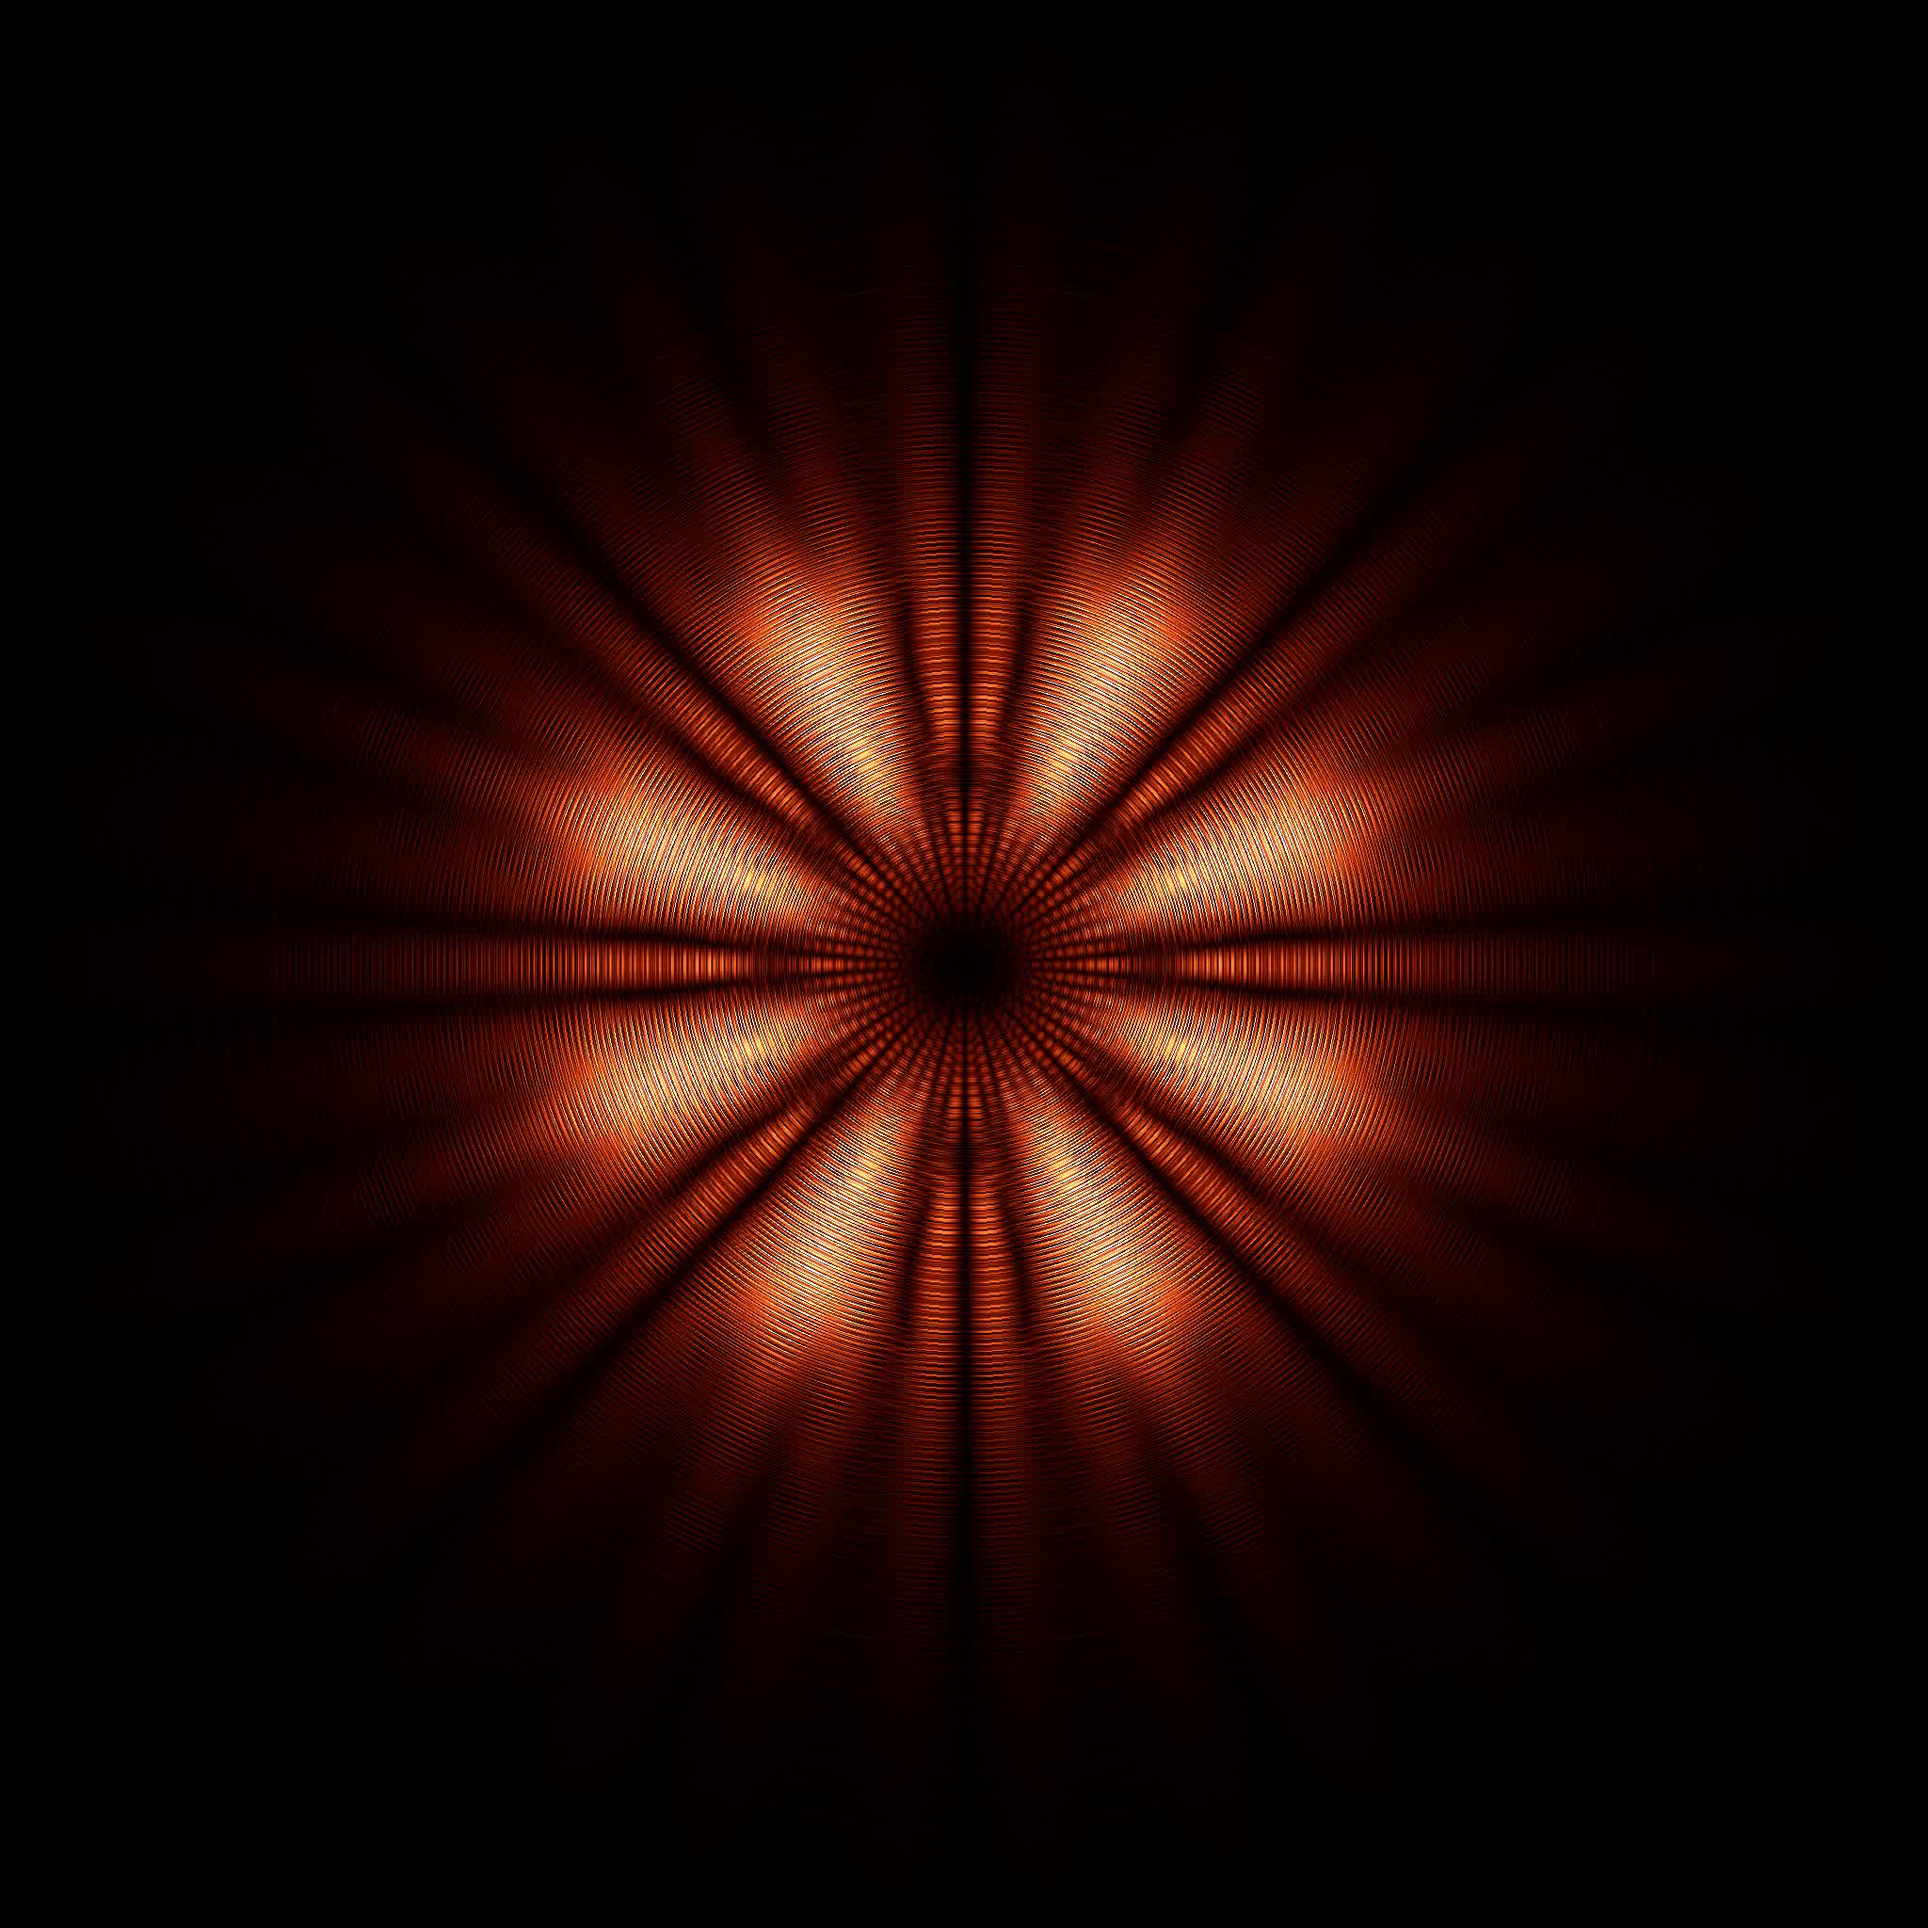
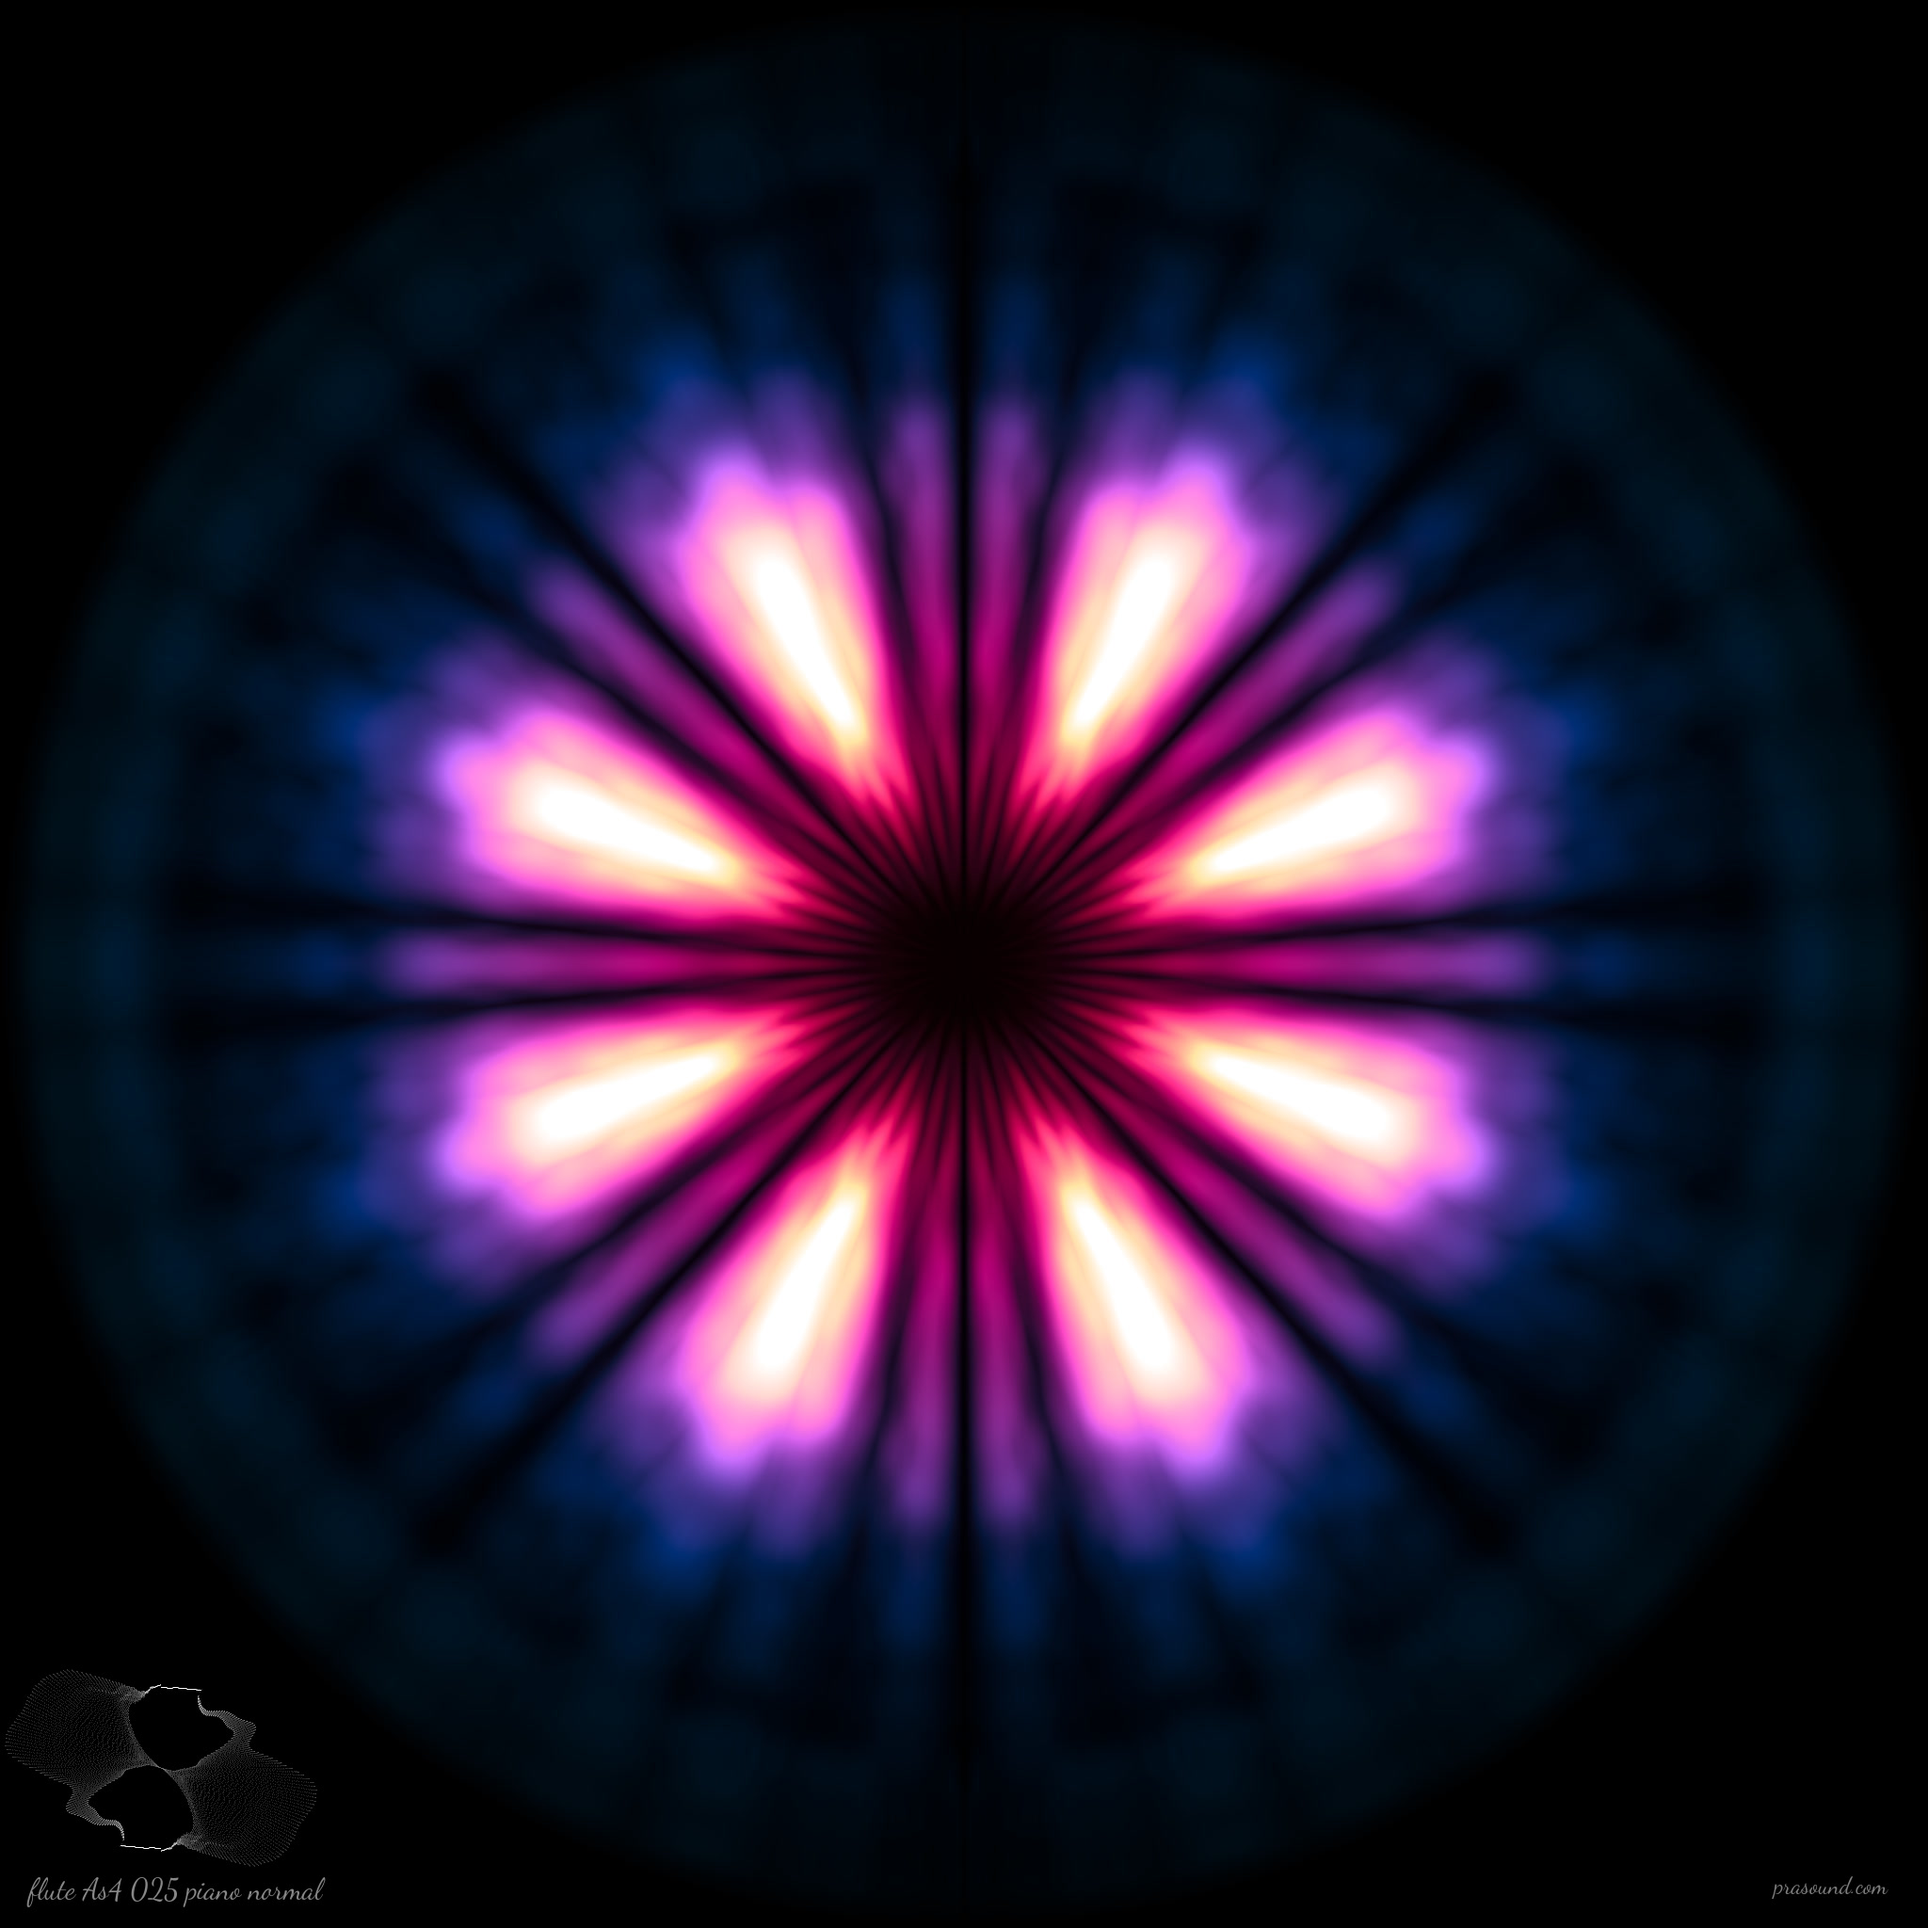
Updated some imgs

diff --git a/create/create.js b/create/create.js
@@ -33,6 +33,7 @@ async function init() {
   base.initConfFromURL();
   initWaveMouseEvents();
   initSettings();
+  initCanvasClick();
 
   $('#preview').onclick = () => saveToGallery();
   $('#upload').onclick = () => runUserAction('uploadAudio', uploadAudio);
@@ -65,6 +66,16 @@ async function runUserAction(name, async_fn) {
       throw err;
   }
   current_op = null;
+}
+
+function initCanvasClick() {
+  $('#art_main canvas').onclick = () => {
+    runUserAction('redrawImg', async () => {
+      gconf.hue = (gconf.hue + 330) % 360;
+      ui_settings.hue.refresh();
+      await redrawImg();
+    });
+  };
 }
 
 function initSettings() {
